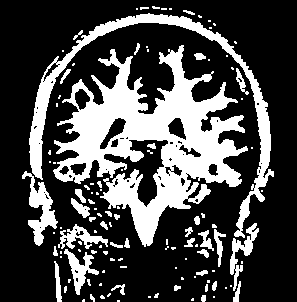
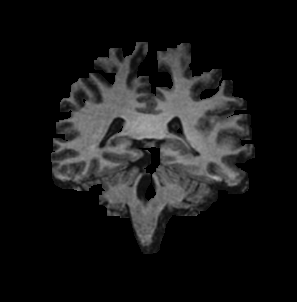
.

diff --git a/Combination/MRI/code.py b/Combination/MRI/code.py
@@ -6,27 +6,20 @@ image=cv2.imread('Brain.png')
 image=cv2.cvtColor(image, cv2.COLOR_BGR2GRAY)
 temp=cv2.imread('Brain.png')
 temp=cv2.cvtColor(temp, cv2.COLOR_BGR2GRAY)
-m=len(image)
-n=len(image[0])
-for i in range(m):
-    for j in range(n):
-        if image[i][j]>41:
-            image[i][j]=255
-        else:
-            image[i][j]=0
-#opening
-image=cv2.erode(image, kernel, iterations=2)
-image=cv2.dilate(image, kernel, iterations=2)
+result, image=cv2.threshold(image, 0, 255, cv2.THRESH_BINARY+cv2.THRESH_OTSU)
 (number, label, values, centroid)=cv2.connectedComponentsWithStats(image, 4, cv2.CV_32S)
 maximum=[0, 0]
 for i in range(1, number):
     area=values[i, cv2.CC_STAT_AREA]
-    if maximum[0]<area:
+    if area>maximum[0]:
         maximum[0]=area
         maximum[1]=i
 component=(label==maximum[1]).astype("uint8")*255
+component=cv2.dilate(component, kernel, iterations=8)
+m=len(component)
+n=len(component[0])
 for i in range(m):
     for j in range(n):
         if component[i][j]==0:
             temp[i][j]=0
-cv2.imwrite('component.png', temp)
+cv2.imwrite('binary.png', temp)
